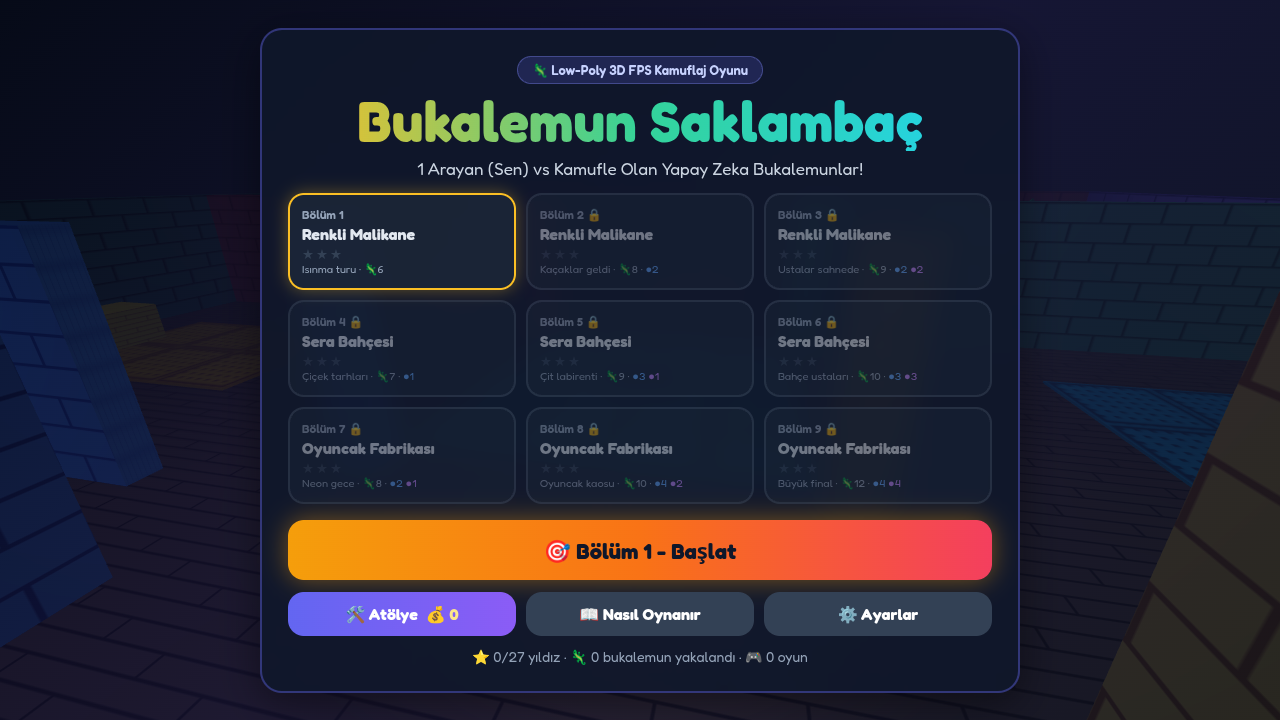
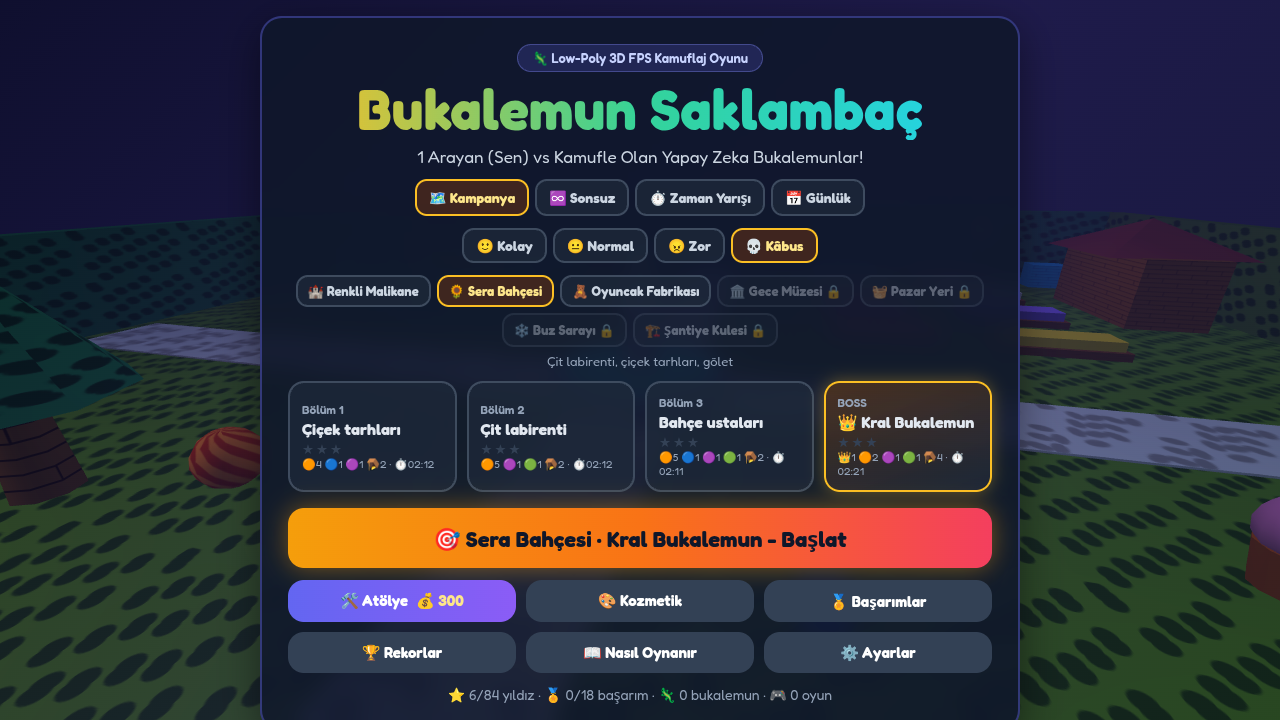
README: yeni haritalar, modlar, zorluk, bukalemun turleri, aletler ve ekran goruntuleri

diff --git a/README.md b/README.md
@@ -1,28 +1,52 @@
 # 🦎 3D Bukalemun Saklambaç
 
-Birinci şahıs 3D saklambaç oyunu: sen **arayan**sın, yapay zekâ bukalemunlar ise saklandıkları eşyanın rengine bürünüyor. Fenerini tut, gözünü dört aç, renk tonundaki küçük farkı yakala ve lazerle vur. Ama dikkat: **boşa ateş edersen silahın kilitlenir!**
+Birinci şahıs 3D saklambaç oyunu. Sen **arayan**sın; yapay zekâ bukalemunlar saklandıkları eşyanın rengine bürünüyor. Fenerini tut, gözünü dört aç, renk tonundaki küçük farkı yakala ve lazerle vur. Ama dikkat et: **boşa ateş edersen silahın kilitlenir!** Sahte bukalemunlar, mürekkep tüküren dikenliler ve her haritanın sonunda bekleyen **Kral Bukalemun** da var.
 
 ### ▶ Hemen oyna: **https://process631.github.io/bukalemun-saklambac/**
 
-Kurulum gerekmez. Tek bir `index.html` dosyası, internet olmadan da çalışır (Three.js içine gömülü).
+Kurulum gerekmez. Oyun tek bir `index.html` dosyası ve internet olmadan da çalışır (Three.js içine gömülü).
 
 ![Ana menü](screenshots/title.png)
 
+## 🆕 Yenilikler
+
+- **4 yeni harita:** 🏛 Gece Müzesi, 🧺 Pazar Yeri, ❄ Buz Sarayı ve 🏗 Şantiye Kulesi. Toplam **7 harita, 28 bölüm** var.
+- **Kral Bukalemun:** Her haritanın 4. bölümü bir boss bölümü.
+- **4 zorluk seviyesi:** Kolay, Normal, Zor ve Kâbus.
+- **4 yeni bukalemun türü:** Sinsi, Dikenli, Prizma ve 🪤 Sahte.
+- **Mermi baskısı:** Yedek şarjör sınırlı ve ıskaların puan/süre cezası var.
+- **Yeni modlar:** ♾ Sonsuz, ⏱ Zaman Yarışı ve 📅 Günlük Meydan Okuma (tohumlu).
+- **Aletler:** 🌡 Termal gözlük, 📯 Sonar bombası ve 🎨 Boya bombası.
+- **Yeni küreler:** 🛡 Kalkan, 🐌 Ağır çekim ve 🎒 Alet şarjı.
+- **Atölye ve ödüller:** 6 yeni atölye geliştirmesi, 11 silah kaplaması, 18 başarım ve yerel rekor tablosu.
+
 ## 📸 Ekran görüntüleri
 
-| Kamuflaj | Renk Taraması (Q) |
+| Gece Müzesi (karanlık, fener şart) | Pazar Yeri |
 |---|---|
-| ![Kamufle olmuş bukalemun](screenshots/gameplay-camo.png) | ![Tarama](screenshots/scan.png) |
-| **Yakaladın!** | **Sera Bahçesi** |
-| ![İsabet](screenshots/hit.png) | ![Sera Bahçesi](screenshots/map-garden.png) |
-| **Oyuncak Fabrikası** | **Radar + Dondurucu** |
-| ![Oyuncak Fabrikası](screenshots/map-factory.png) | ![Radar](screenshots/radar-freeze.png) |
-| **Bölüm sonu** | **Atölye** |
-| ![Sonuç](screenshots/result.png) | ![Atölye](screenshots/shop.png) |
+| ![Gece Müzesi](screenshots/map-museum.png) | ![Pazar Yeri](screenshots/map-market.png) |
+| **Buz Sarayı (kaygan zemin)** | **Şantiye Kulesi (çok katlı)** |
+| ![Buz Sarayı](screenshots/map-ice.png) | ![Şantiye Kulesi](screenshots/map-construction.png) |
+| **🌡 Termal gözlük** | **📯 Sonar bombası** |
+| ![Termal](screenshots/thermal.png) | ![Sonar](screenshots/sonar.png) |
+| **🎨 Boya bombası** | **👑 Kral Bukalemun** |
+| ![Boya](screenshots/paint.png) | ![Kral](screenshots/king.png) |
+| **🪤 Sahteler taramada kırmızı** | **🦑 Mürekkep saldırısı** |
+| ![Sahte](screenshots/decoy-scan.png) | ![Mürekkep](screenshots/ink.png) |
+| **♾ Sonsuz mod** | **⏱ Zaman yarışı ve başarım** |
+| ![Sonsuz](screenshots/endless-wave4.png) | ![Zaman yarışı](screenshots/race-result.png) |
+| **📅 Günlük meydan okuma** | **🏆 Rekor tablosu** |
+| ![Günlük](screenshots/menu-daily.png) | ![Rekorlar](screenshots/leaderboard.png) |
+| **🏅 Başarımlar** | **🎨 Silah kaplamaları** |
+| ![Başarımlar](screenshots/achievements.png) | ![Kaplamalar](screenshots/skins.png) |
+| **Renkli Malikane** | **Renk Taraması (Q)** |
+| ![Kamuflaj](screenshots/gameplay-camo.png) | ![Tarama](screenshots/scan.png) |
+| **Sera Bahçesi** | **Oyuncak Fabrikası** |
+| ![Sera Bahçesi](screenshots/map-garden.png) | ![Oyuncak Fabrikası](screenshots/map-factory.png) |
 
-Mobil (dokunmatik joystick):
+Mobilde alet butonları ekranın alt ortasında:
 
-![Mobil](screenshots/mobile-play.png)
+![Mobil](screenshots/mobile-thermal.png)
 
 ## 🎮 Kontroller
 
@@ -31,45 +55,100 @@ Mobil (dokunmatik joystick):
 | `W A S D` / ok tuşları | Sol joystick (ekranın sol yarısı) | Hareket |
 | Fare | Ekranın sağ yarısında sürükle | Etrafa bakış |
 | `Shift` | 🏃 butonu (aç/kapa) | Koşma (kondisyon harcar) |
-| `Boşluk` | ⤒ butonu | Zıplama (alçak eşyaların üstüne çıkabilirsin) |
+| `Boşluk` | ⤒ butonu | Zıplama (eşyaların ve iskelelerin üstüne çıkabilirsin) |
 | Sol tık / `F` | 🔫 butonu | Lazer |
 | `Q` / sağ tık | `Q` butonu | Renk taraması |
-| `R` | `R` butonu | Şarjörü doldur |
+| `R` | `R` butonu | Şarjörü doldur (yedek bataryadan) |
+| **`1`** | 🌡 butonu | **Termal gözlük** |
+| **`2`** | 📯 butonu | **Sonar bombası fırlat** |
+| **`3`** | 🎨 butonu | **Boya bombası fırlat** |
 | `Esc` / `P` | ❚❚ butonu | Duraklat |
 | Hazırlıkta `Boşluk` | Ekrana dokun | Hazırlık süresini hızlandır |
+| Menüde `Enter` |  | Seçili modu başlat |
 
 Fare kilitlenemiyorsa (ör. bir iframe içinde) basılı tutup sürükleyerek de bakabilirsin.
 
-## ✨ Özellikler
+## 🗺 Haritalar
 
-- **Akıllı kamuflaj:** Bukalemunlar etraflarına ışın atıp en yakın duvarın, halının, çalının ya da kutunun rengini okuyor ve yumuşak bir geçişle o renge bürünüyor. Kamuflajda her zaman hafif bir ton farkı kalıyor. Nefes alıyor, ara sıra göz kırpıyorlar.
-- **3 harita, 9 bölüm:** Renkli Malikane (orijinal harita), Sera Bahçesi (çit labirenti, çiçek tarhları, gölet, çardak) ve Oyuncak Fabrikası (neon ışıklar, blok kalesi, konveyörler). Bölümler ilerledikçe bukalemun sayısı 6'dan 12'ye çıkıyor.
-- **3 bukalemun türü:** 🟠 Sıradan (100 puan), 🔵 **Kaçak**: yaklaşınca ya da fenerle üstüne tutunca hızla kaçar (150 puan), 🟣 **Usta**: şapkalı, kamuflajı neredeyse kusursuz (200 puan).
-- **Daha akıllı yapay zekâ:** Izgara tabanlı A* yol bulmayla bukalemunlar duvarlara takılmıyor. Fenerin üstlerinde kalırsa ya da yanlarına ıska geçersen panikleyip senden uzak bir yere kaçabiliyorlar. Kaçarken kamuflajları bozuluyor, işte o an fırsat!
-- **Yönlü kıkırdamalar:** Kıkırdamalar stereo çalıyor ("Solundan bir kıkırdama geldi!"). Bir de 🔥 sıcak/soğuk göstergesi var.
-- **Güç küreleri:** ⚡ Süper hız · ⏱ +12 sn · 🔓 Silah ve tarama yenileme · 📡 Radar (ekranda yön okları) · ❄ Dondurucu (bukalemunlar kaçamaz) · ✖2 Çift puan.
-- **İlerleme:** Kombo puanları, bölüm başına 3 yıldız (kazan · sürenin %40'ı kalsın · %70 isabet), altın ve **Atölye**: Geniş Şarjör, Soğutucu, Tarama Çipi, Uzun Tarama, Spor Ayakkabı, Güçlü Fener, Ekstra Süre, Şans Küresi. Hepsi tarayıcıda (localStorage) kaydediliyor.
-- **Daha akıcı oynanış:** Yumuşatılmış fare bakışı, ivmeli hareket, kafa sallanması, koşarken FOV artışı, zıplama ve iniş sarsıntısı, silah sallanması, geri tepme, doldurma animasyonu, isabet işareti, ekran sarsıntısı, uçan puan yazıları, konfeti.
-- **Ses:** Web Audio ile üretilmiş efektler ve gerilim anında hızlanan müzik. Hiçbir ses dosyası yok.
-- **Ayarlar:** Fare hassasiyeti, FOV, ses ve müzik seviyesi, Y eksenini ters çevirme, grafik kalitesi (gölgeler, çözünürlük).
+| Harita | Özellik |
+|---|---|
+| 🏰 Renkli Malikane | Renkli odalar, halılar, kutular |
+| 🌻 Sera Bahçesi | Çit labirenti, çiçek tarhları, gölet |
+| 🧸 Oyuncak Fabrikası | Neon ışıklar, blok kalesi, konveyörler |
+| 🏛 **Gece Müzesi** | Zifiri karanlık ve sis, fener hayati. Galeriler, heykeller, vitrinler, dinozor iskeleti. **Lazer alarmına** basarsan -5 sn kaybedersin ve bukalemunlar yer değiştirir. |
+| 🧺 **Pazar Yeri** | Gün ışığında çizgili tente altında tezgâhlar, asılı halılar, saat kulesi, varil ve kafe |
+| ❄ **Buz Sarayı** | Yarı saydam buz blokları, neon kristaller, iglolar, kardan adamlar, donmuş göl. **Zemin kaygan**, hızlı dönemezsin. |
+| 🏗 **Şantiye Kulesi** | Çok katlı iskeleler ve merdivenler. Bukalemunlar **duvara tırmanıp** üst katlarda saklanır. |
 
-## 🛠 Orijinal prototipe göre düzeltmeler
+Her haritada 3 bölüm ve bir **👑 Kral Bukalemun** bölümü var. Bir haritayı bitirince sonraki açılır. Bölümler ilerledikçe süre kısalır, bukalemun ve sahte sayısı artar, özel türler çoğalır.
 
-- Fare kilitlenemediğinde etrafa bakılamıyordu. Artık sürükleyerek bakış var ve kilit isteği hata vermiyor.
-- Her lazerde ve her parçacıkta yeni geometri/malzeme oluşturulup hiç silinmiyordu (bellek sızıntısı). Artık paylaşılan geometri, tek bir `InstancedMesh` parçacık sistemi ve düzgün `dispose` kullanılıyor.
-- Saklananlar duvarlara takılıp sürekli yeni hedef seçiyordu. Bunun yerine A* yol bulma eklendi.
-- Tailwind CDN uyarısı ve çevrimiçi bağımlılıklar kaldırıldı. CSS ve Three.js gömülü, oyun çevrimdışı çalışıyor.
-- Silah modeli duvarların içine giriyordu. Artık ayrı bir katmanda çiziliyor.
-- Dokular her nesne için yeniden üretiliyordu. Artık önbellekten geliyor. Çözünürlük oranı sınırlandı (mobilde daha hızlı).
-- Ok tuşları ve boşluk sayfayı kaydırıyordu. Sekme değişince oyun duraklıyor.
+## 🎮 Modlar
+
+- **🗺 Kampanya:** 28 bölüm. Her bölüm 3 yıldız üzerinden değerlendirilir (kazan, sürenin %40'ı kalsın, %70 isabet).
+- **♾ Sonsuz Hayatta Kalma:** Dalga dalga bukalemun gelir. Her yakalama +5 sn, her dalga +25 sn kazandırır. Her 3 dalgada harita değişir, her 5. dalgada Kral gelir. Süre biterse oyun biter; en iyi dalga ve skor kaydedilir.
+- **⏱ Zaman Yarışı:** Seçtiğin haritada 8 bukalemunu en kısa sürede yakalamaya çalışırsın. Süre ileri sayar, her ıska +5 sn ceza ekler. Rekor süreler harita başına tutulur.
+- **📅 Günlük Meydan Okuma:** Tarihten üretilen tohumla herkes aynı haritada aynı bukalemunlara ve aynı saklanma yerlerine karşı oynar. 8 kuraldan 2'si rastgele seçilir: Zifiri Karanlık, Ürkek Sürü, Kısıtlı Batarya, Tuzak Cenneti, Kral Ziyareti, Altın Yağmuru, Cam Top, Tarama Arızası. Günün ilk tamamlanması +150 altın kazandırır.
+
+## 💀 Zorluk
+
+| | Kolay | Normal | Zor | Kâbus |
+|---|---|---|---|---|
+| Süre | x1.3 | x1 | x0.85 | x0.7 |
+| Şarjör | +4 | ±0 | -2 | -4 |
+| Yedek şarjör | sınırsız | 3 | 2 | 1 |
+| Iska cezası | yok | -25 puan | -50 puan, -3 sn | -100 puan, -5 sn |
+| Sahte bukalemun | yok | x1 | x1.5 | x2 |
+| Bukalemun göçü (tur ortasında yer değiştirme) | yok | 1 kez (2. bölümden sonra) | 2 kez | 2 kez |
+| Puan / altın | x0.75 / x0.8 | x1 | x1.35 / x1.25 | x1.8 / x1.6 |
+
+Zor ve Kâbus'ta bukalemunlar fenerden daha çabuk kaçar, kamuflajları daha kusursuz olur ve dikenliler daha sık saldırır. Kâbus'ta Kral 4 isabet ister.
+
+## 🦎 Bukalemun Türleri
+
+| Tür | Davranış |
+|---|---|
+| 🟠 Sıradan | 100 puan |
+| 🔵 Kaçak | Yaklaşınca ya da fenerle üstüne tutunca hızla kaçar |
+| 🟣 Usta | Şapkalı. Kamuflajı neredeyse kusursuz. |
+| 🟢 **Sinsi** | Sen bakmazken sessizce yer değiştirir, kamuflajının bir kısmını korur |
+| 🔴 **Dikenli** | Yakınına gelip fenerle uzun süre bakarsan şişer (💢) ve **mürekkep tükürür**: ekranın kararır, kısa süre sersemlersin. Kaçarak ya da kalkanla kurtulabilirsin. |
+| 💗 **Prizma** | Rengini sürekli yeniden ayarlar. Taramada çok zayıf parlar. |
+| 👑 **Kral Bukalemun** | 3 isabet ister (Kâbus'ta 4). Her isabette kaçar, 2 sahte kopya bırakır ve mürekkep tükürür. |
+| 🪤 **Sahte** | Nefes almaz, göz kırpmaz ve taramada kırmızı görünür. Vurursan **-8 sn** ve puan kaybedersin. |
+
+## 🎒 Aletler ve Küreler
+
+- **🌡 Termal gözlük (`1`):** Dünya soğuk mavi görünür, bukalemunlar parlak turuncu parlar, sahteler soğuk kalır. Süresi 4 sn (atölyeyle 7 sn).
+- **📯 Sonar bombası (`2`):** Fırlatılır. Düştüğü yerin 14 m çevresindeki bukalemunları 6 sn boyunca mesafeleriyle işaretler, sahteleri "SAHTE" diye gösterir.
+- **🎨 Boya bombası (`3`):** Fırlatılır. 7 m içindeki bukalemunları 12 sn boyunca pembeye boyar, sahteleri griye.
+- Her bölümde her aletten 1 şarj gelir. Alet Çantası ve Kolay zorluk ek şarj verir. Sonsuz modda her iki dalgada bir şarj eklenir.
+- **Güç küreleri:** ⚡ Hız · ⏱ +12 sn · 🔓 Yenileme · 📡 Radar · ❄ Dondurucu · ✖2 Çift puan · 🔋 Yedek mermi · **🛡 Kalkan** (bir mürekkebi engeller) · **🐌 Ağır çekim** (bukalemunlar yavaşlar) · **🎒 Alet şarjı**.
+
+## 🏅 İlerleme
+
+- **Atölye (14 geliştirme):** Geniş Şarjör, Soğutucu, Tarama Çipi, Uzun Tarama, Spor Ayakkabı, Güçlü Fener, Ekstra Süre, Şans Küresi. Yeni olanlar: **Yedek Batarya, Kombo Zinciri, Altın Mıknatısı, Mürekkep Gözlüğü, Alet Çantası, Termal Pil**.
+- **🎨 Silah kaplamaları (11):** Klasik, Neon Pembe, Buz Kristali, Lav, Zümrüt (altınla alınır), Altın Kral, Gece Bekçisi, Kâbus, Galaksi, Bukalemun, Hanedan (başarımla açılır). Kaplama lazerin rengini de değiştirir; bazıları renk döngüsü yapar.
+- **🏅 18 başarım:** Her biri altın verir, bazıları kaplama açar. Örnekler: Kral Avcısı, Hanedan Yıkıcı, Keskin Nişancı, Tuzağa Düşmeyen, Dalga Sörfçüsü, Şimşek, Boyacı.
+- **🏆 Yerel rekor tablosu:** Kampanya, Sonsuz, Zaman Yarışı (harita başına) ve Günlük için ilk 10. Oyuncu adını Ayarlar'dan değiştirebilirsin.
+- İlerlemenin tamamı tarayıcıda (`localStorage`) saklanır. Eski sürümdeki kayıtlar yeni bölüm düzenine otomatik taşınır.
+
+## ✨ Temel özellikler
+
+- **Akıllı kamuflaj:** Bukalemunlar etraflarına ışın atıp en yakın yüzeyin rengini okur ve yumuşak bir geçişle o renge bürünür. Kamuflajda hafif bir ton farkı kalır; nefes alır, göz kırparlar.
+- **Yapay zekâ:** Izgara tabanlı A* yol bulma kullanılıyor. Dikey haritada tırmanarak yükseğe çıkabiliyorlar. Fenerde kalırlarsa ya da ıska yanlarından geçerse panikleyip kaçıyorlar.
+- **Yönlü kıkırdamalar** (stereo) ve 🔥 sıcak/soğuk göstergesi.
+- **Akıcı oynanış:** Yumuşatılmış bakış, ivmeli hareket, kafa sallanması, FOV efekti, geri tepme ve konfeti.
+- **Ses:** Web Audio ile üretilir; hiçbir ses dosyası yok.
 
 ## ⚠ Bilinen sınırlamalar
 
-- Grafikler low-poly ve prosedürel. Çok eski telefonlarda "Düşük" kalite ayarı önerilir.
-- Bukalemunlar zıplayamaz, hep zeminde saklanırlar. Çarpışma kutuları silindir ve küreler için yaklaşık hesaplanıyor.
-- iOS Safari'de fare kilidi yok, bu yüzden dokunmatik kontroller kullanılıyor.
+- Rekor tablosu ve günlük skorlar **yalnızca bu cihazda** tutulur. Çevrimiçi bir sıralama yok.
+- Günlük meydan okuma, saklanma yerlerini aynı tohumdan üretir. Kaçan ya da göç eden bukalemunların sonraki yerleri oyuncunun hareketine göre değişebilir.
+- Grafikler low-poly ve prosedürel. Çok eski telefonlarda "Düşük" kalite ayarı önerilir. Termal gözlük açıkken sahne iki kez çizildiği için çok zayıf cihazlarda kısa süre FPS düşebilir.
+- Çarpışma kutuları silindirler ve küreler için yaklaşık hesaplanıyor.
+- iOS Safari'de fare kilidi yok; dokunmatik kontroller kullanılıyor.
 
 ## 📦 Teknik
 
-- Tek dosya: `index.html` (≈730 KB, Three.js r128 dahil, MIT lisanslı)
-- Üçüncü taraf API ya da sunucu yok. Kayıtlar yalnızca tarayıcının `localStorage`'ında tutuluyor.
+- Tek dosya: `index.html` (≈800 KB, Three.js r128 dahil, MIT lisanslı)
+- Üçüncü taraf API ya da sunucu yok.
